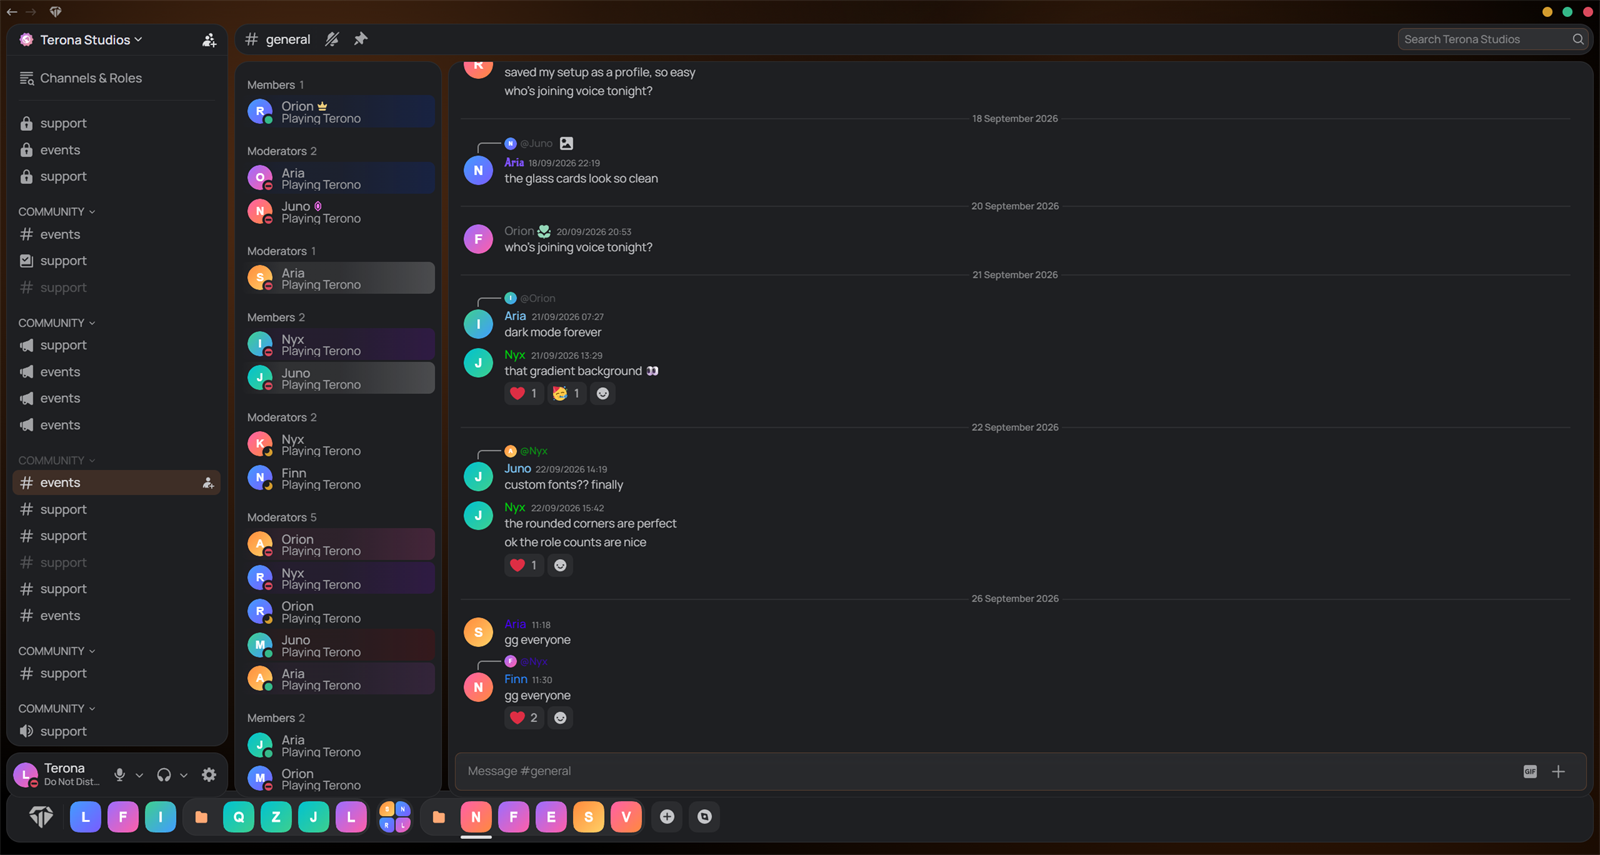
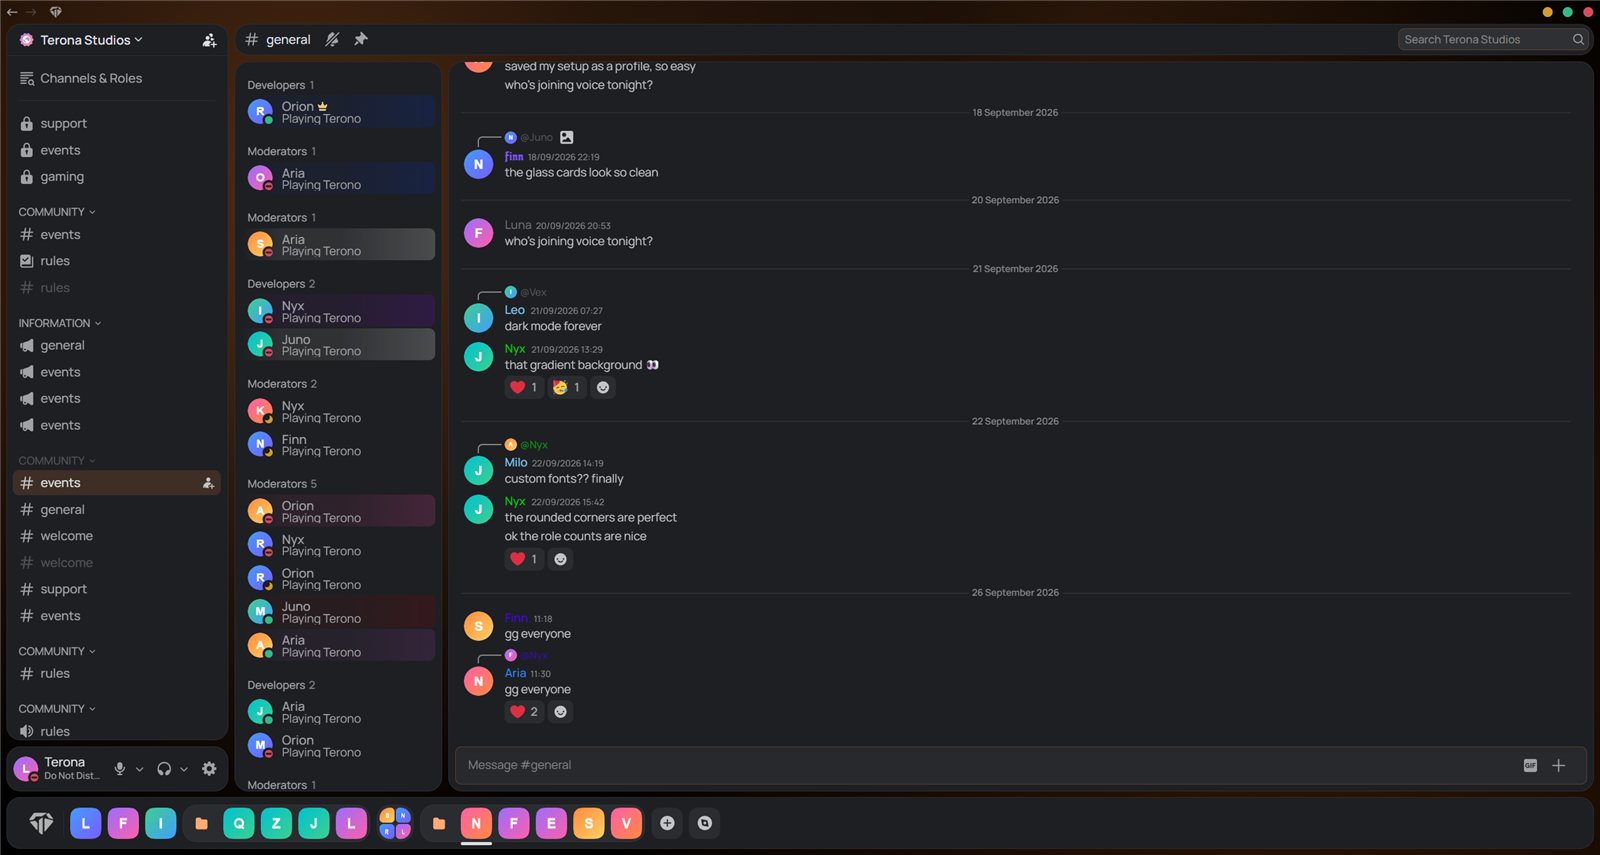
Fix bottom server list overlapping the panels
Pin the bottom row to the window edge instead of positioning it from the
channel sidebar, and reserve its height plus one gap so every side has the
same spacing. Retake the bottom layout screenshot.

diff --git a/theme/Terono.theme.css b/theme/Terono.theme.css
@@ -3,7 +3,7 @@
  * @author Terona Studios
  * @source https://github.com/Terona-Studios/Terono
  * @website https://github.com/Terona-Studios/Terono
- * @version 12.0.0
+ * @version 12.1.1
  * @description Fast, customizable Discord theme by Terona Studios. Standalone: no remote theme imports. Pair with the Terono plugin for full customization.
  */
 
@@ -2280,8 +2280,19 @@ html[data-dz-guilds="top"] .page__5e434 {
     padding-top: calc(var(--gap) + 2px);
 }
 
+/* HSL positions the bottom row from the channel sidebar, so it drifts over the panels whenever
+   the sidebar height changes. Pin it to the window edge and reserve its height + one gap instead. */
 html[data-dz-guilds="bottom"] .guilds__5e434 {
-    translate: 0 calc(var(--gap) * -1);
+    position: fixed !important;
+    top: calc(100vh - var(--gap)) !important;
+    left: var(--gap) !important;
+    margin: 0 !important;
+    translate: none !important;
+    z-index: 3;
+}
+
+html[data-dz-guilds="bottom"] .base__5e434[data-fullscreen="false"] .content__5e434 {
+    margin-bottom: calc(var(--custom-guild-list-width) + var(--gap));
 }
 
 html[data-dz-guilds="bottom"] :is(.sidebar__5e434, .page__5e434) {
@@ -2320,10 +2331,6 @@ html[data-dz-channels="right"]:is([data-dz-guilds="top"], [data-dz-guilds="botto
 
 html[data-dz-channels="right"][data-dz-guilds="top"] .guilds__5e434 {
     top: calc(var(--custom-app-top-bar-height) + var(--custom-guild-list-width)) !important;
-}
-
-html[data-dz-channels="right"][data-dz-guilds="bottom"] .guilds__5e434 {
-    top: calc(100vh - var(--gap)) !important;
 }
 
 html[data-dz-guilds="right"] .page__5e434 {
